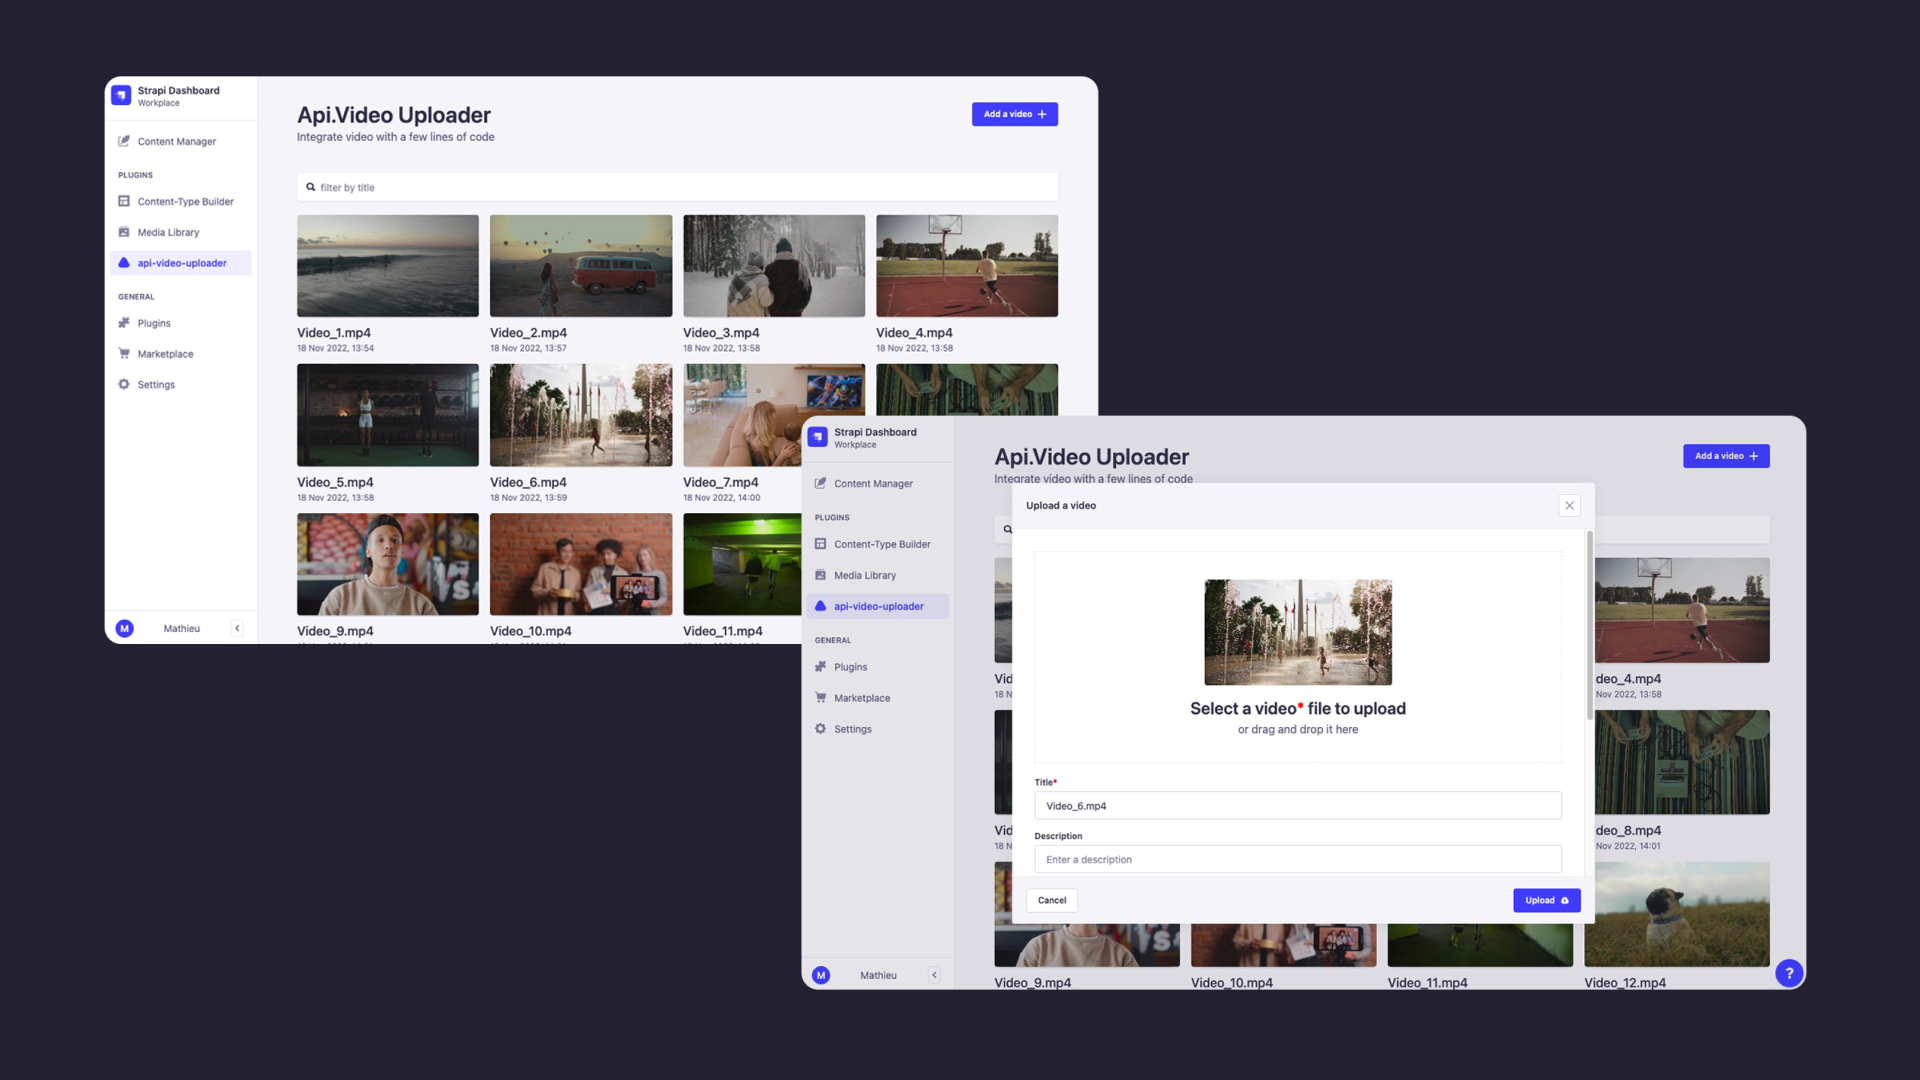
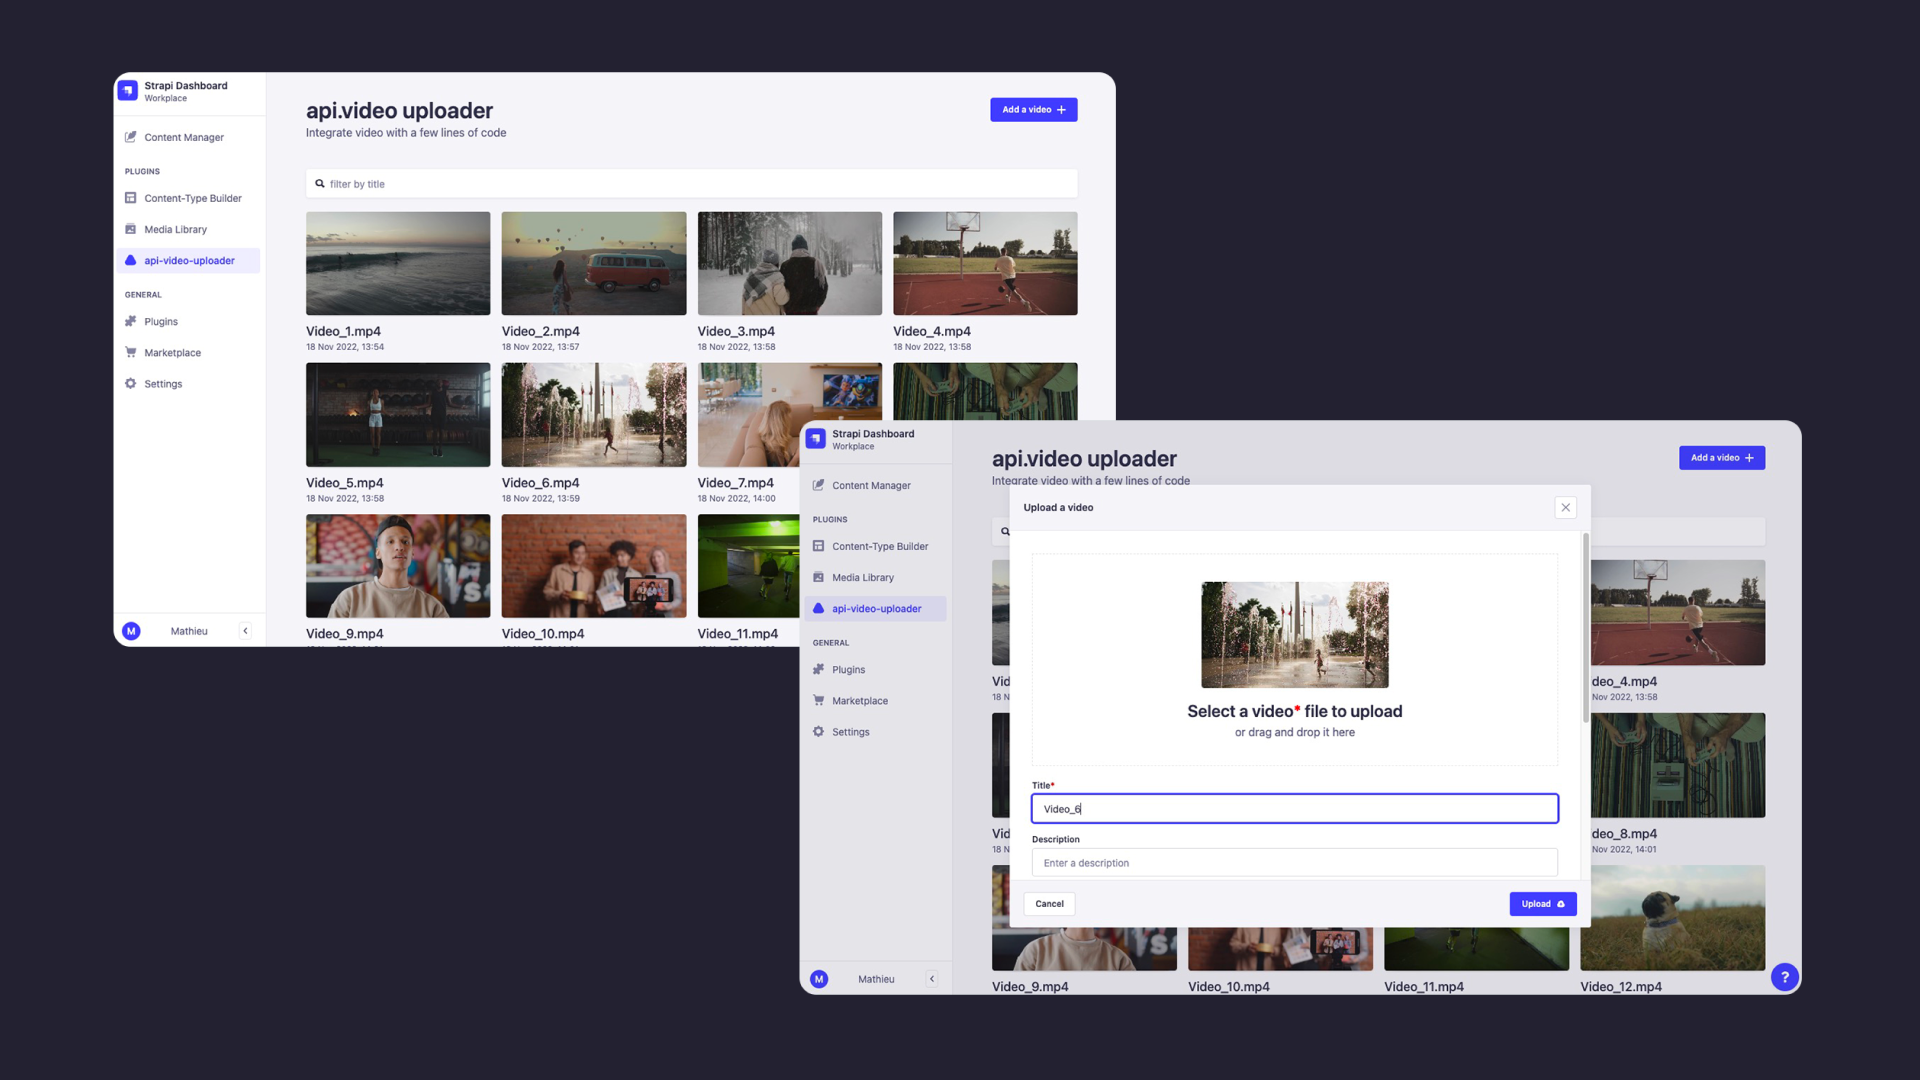
fix readme

Changed region(s): [[0.0312, 0.0611, 0.9688, 0.7028], [0.4062, 0.4889, 0.9375, 0.9472], [0.625, 0.5194, 0.75, 0.7028]]

diff --git a/admin/src/pages/HomePage/index.tsx b/admin/src/pages/HomePage/index.tsx
@@ -60,7 +60,7 @@ const HomePage = () => {
   return (
     <Layout>
       <BaseHeaderLayout
-        title="Api.Video Uploader"
+        title="api.video uploader"
         subtitle="Integrate video with a few lines of code"
         as="h2"
         primaryAction={isConfigurated && <AddButton update={fetchData} />}

diff --git a/admin/src/pages/Settings/index.tsx b/admin/src/pages/Settings/index.tsx
@@ -59,7 +59,7 @@ const Settings = () => {
   return (
     <>
       <HeaderLayout
-        title={"Api Video Uploader"}
+        title={"api.video uploader"}
         primaryAction={
           <Button
             type="submit"

diff --git a/README.md b/README.md
@@ -2,8 +2,8 @@
   <img style="width: 150px; height: auto;" src="public/assets/api-video-logo.png" alt="Logo - Api Video" />
 </div>
 <div align="center">
-  <h1>Strapi v4 - Api Video Uploader</h1>
-  <p>Powerful Strapi tool for managing uploads to <a href="https://api.video">Api Video</a>.</p>
+  <h1>Strapi v4 - api.video uploader</h1>
+  <p>Powerful Strapi tool for managing uploads to <a href="https://api.video">api.video</a>.</p>
      <a href="https://twitter.com/intent/follow?screen_name=api_video"><img src="https://img.shields.io/twitter/follow/api_video?style=social" alt="Twitter Badge"/></a>
     <a href="https://community.api.video"><img src="https://img.shields.io/discourse/topics?server=https%3A%2F%2Fcommunity.api.video" alt="Pull Requests Badge"/></a>
 </div>
